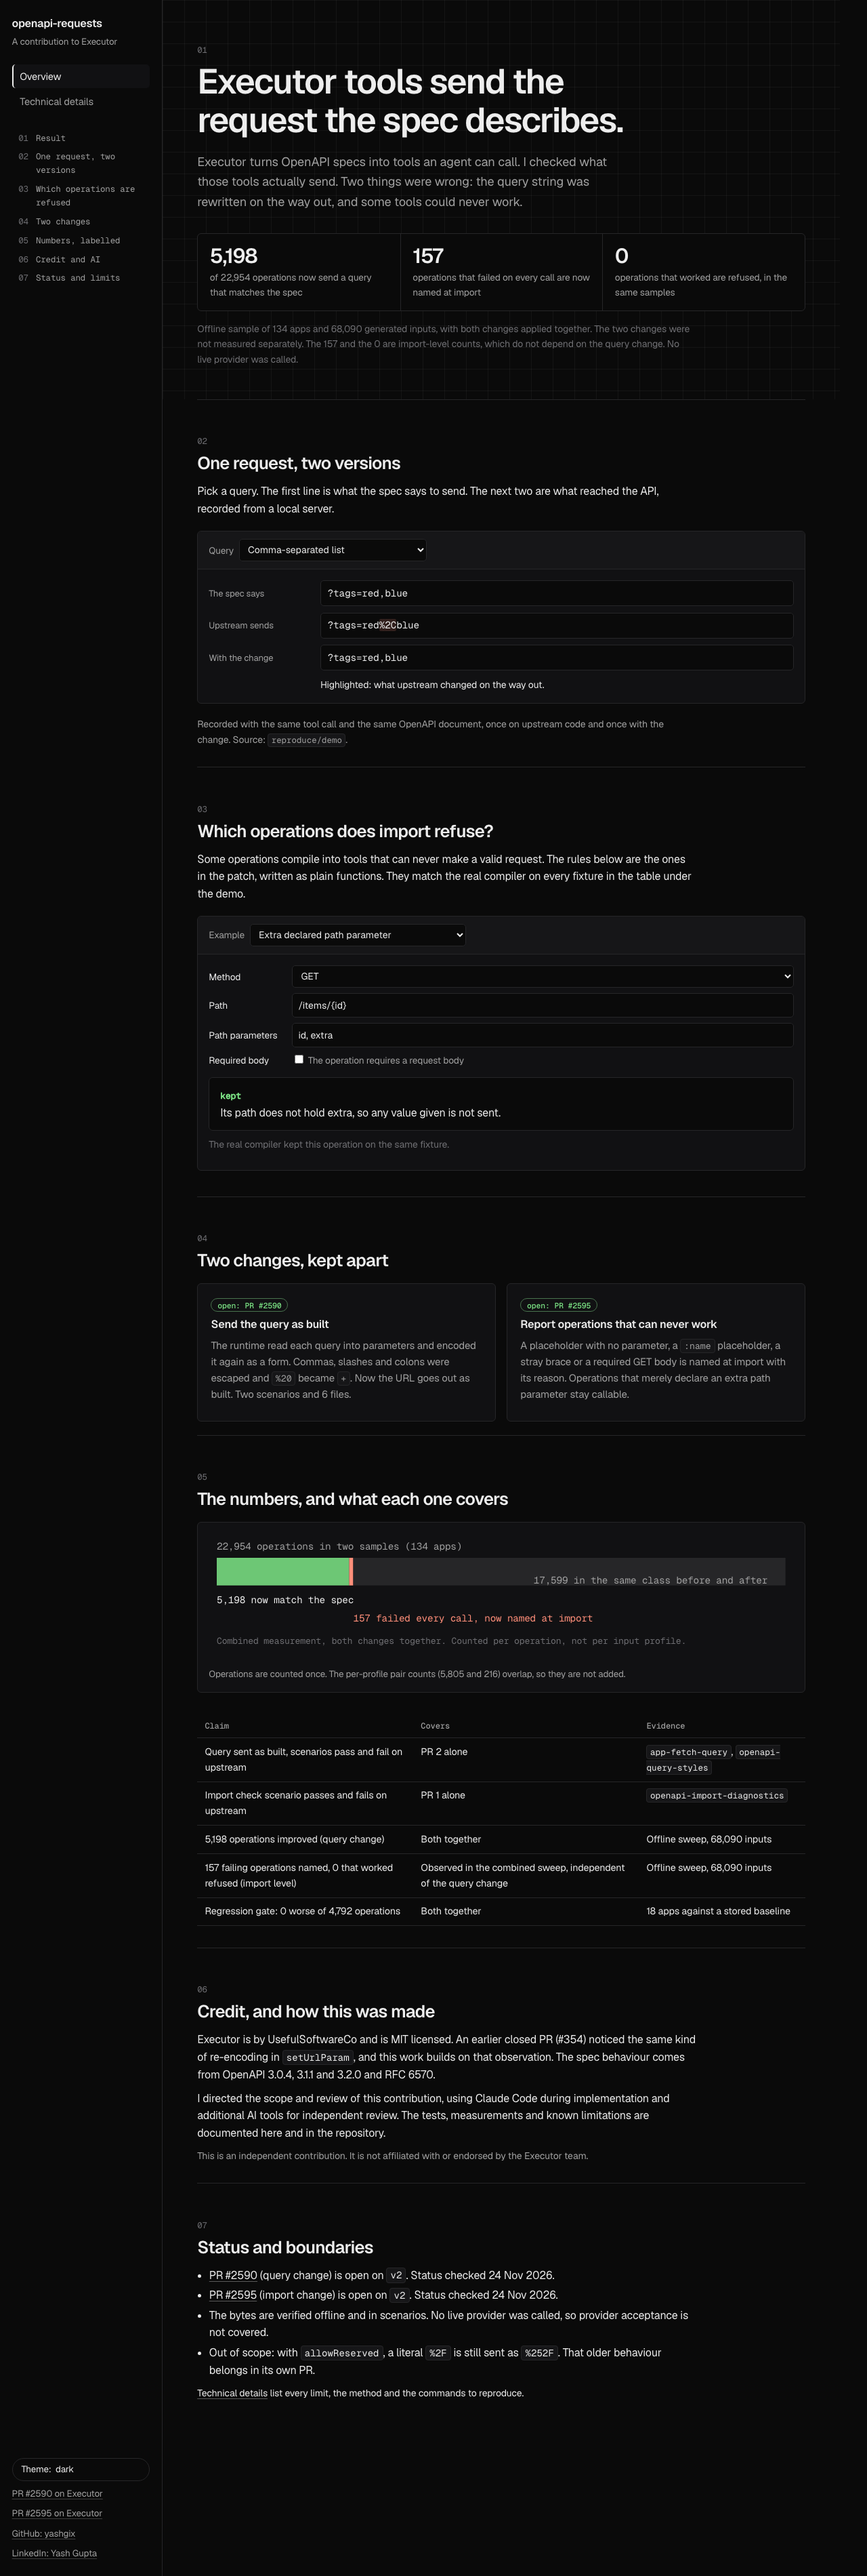
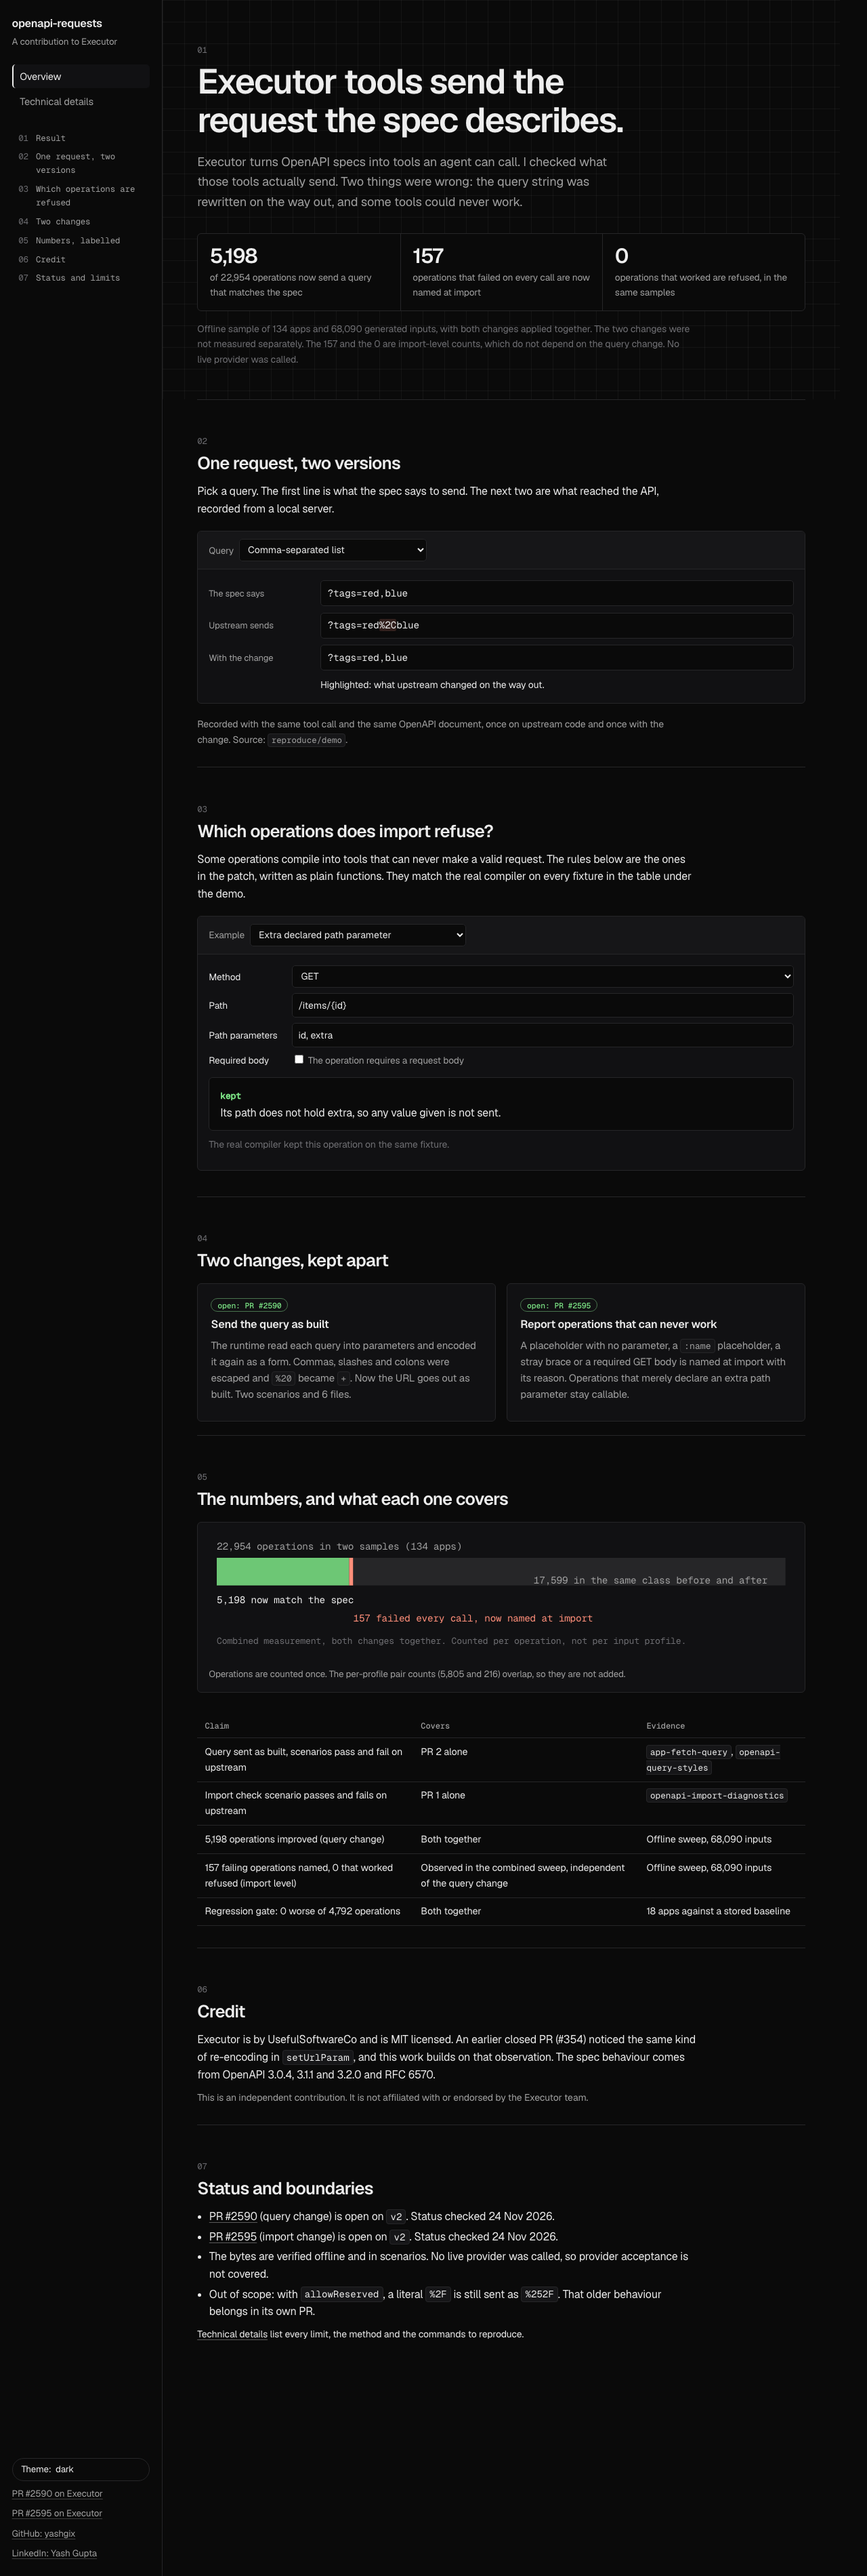
Page: remove the AI sentence from the Credit section

Changed region(s): [[0.2188, 0.8074, 0.7812, 0.9316]]

diff --git a/docs/index.html b/docs/index.html
@@ -208,11 +208,10 @@ ul.tight{margin:.4rem 0;padding-left:1.1rem;max-width:46rem}ul.tight li{margin:.
   </table></div>
 </section>
 
-<section id="credit" data-title="Credit and AI">
+<section id="credit" data-title="Credit">
   <span class="num">06</span>
-  <h2>Credit, and how this was made</h2>
+  <h2>Credit</h2>
   <p>Executor is by UsefulSoftwareCo and is MIT licensed. An earlier closed PR (#354) noticed the same kind of re-encoding in <code>setUrlParam</code>, and this work builds on that observation. The spec behaviour comes from OpenAPI 3.0.4, 3.1.1 and 3.2.0 and RFC 6570.</p>
-  <p>I directed the scope and review of this contribution, using Claude Code during implementation and additional AI tools for independent review. The tests, measurements and known limitations are documented here and in the repository.</p>
   <p class="small muted">This is an independent contribution. It is not affiliated with or endorsed by the Executor team.</p>
 </section>
 
